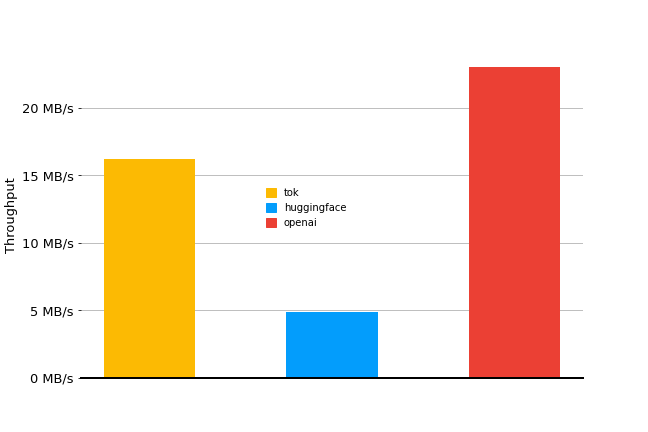
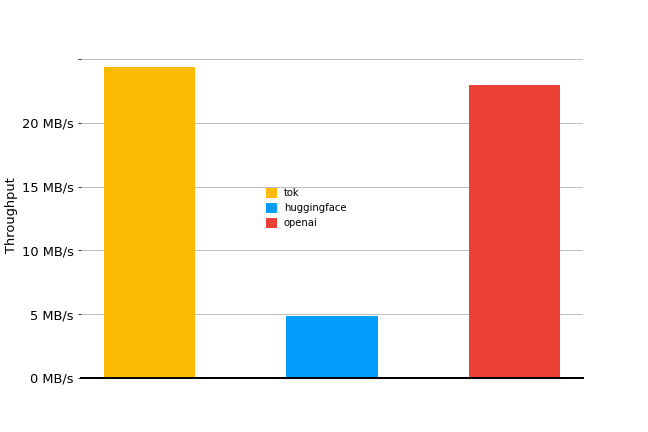
reverted from fxhash to default hash since MUCH faster in pybindings

diff --git a/src/lib.rs b/src/lib.rs
@@ -1,14 +1,17 @@
-use rustc_hash::FxHashMap;
+// use rustc_hash::FxHashMap;
 // use serde_json;
-use std::cell::RefCell;
-// use std::collections::HashMap;
+// use ahash::AHasher;
 use pyo3::prelude::*;
 use pyo3::types::PyType;
+use std::cell::RefCell;
+use std::collections::HashMap;
+use std::hash::BuildHasherDefault;
 use std::io::Write;
 use std::{fs, str};
 
-// type Map<K, V> = HashMap<K, V>;
-type Map<K, V> = FxHashMap<K, V>;
+type Map<K, V> = HashMap<K, V>;
+// type Map<K, V> = HashMap<K, V, BuildHasherDefault<AHasher>>;
+// type Map<K, V> = FxHashMap<K, V>;
 type Rank = u32;
 
 pub trait Tokenizer {
